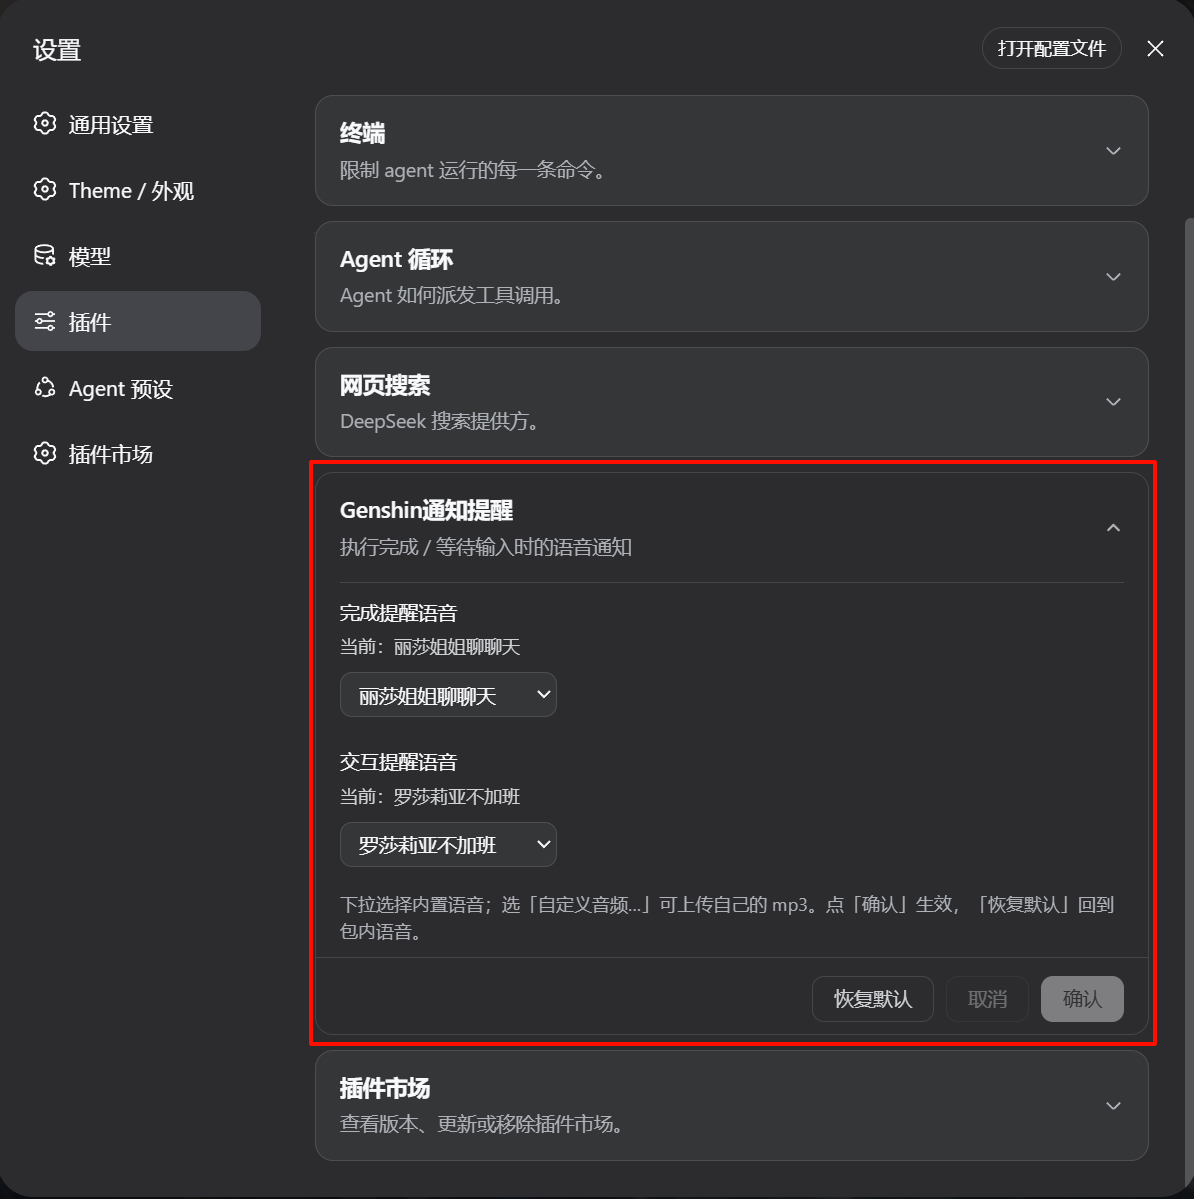
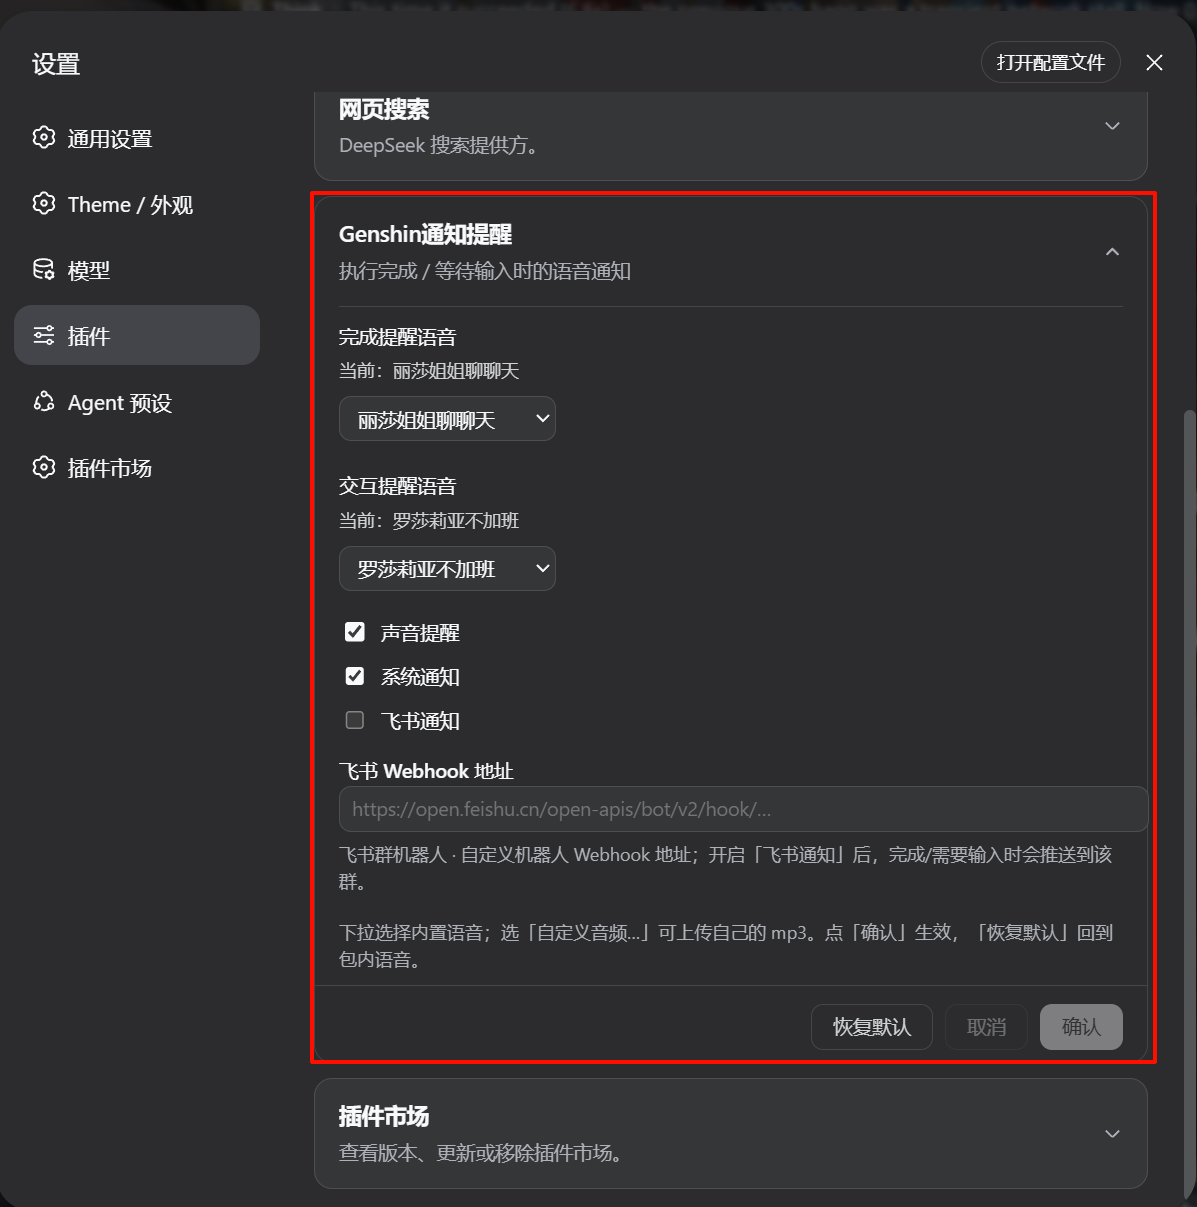
docs: sync usage/config/how-it-works with 0.7.0 (three channels, feishu webhook); refresh screenshot

diff --git a/README.md b/README.md
@@ -34,23 +34,25 @@ dsh plugin --profile web add github:EagleClark/dsh-genshin-lisa-notice
 
 ## 使用方法 / Usage
 
-**1. 触发提醒** —— 装好后无需任何操作，两种时刻会自动响语音：
+**1. 触发提醒** —— 装好后无需任何操作，两种时刻会自动提醒：
 
-- 🏁 **执行完成**：任意会话的回合结束时，播放"完成提醒语音"
-- 💬 **等待输入**：agent 通过 `ask_user_question` 向你提问时，播放"交互提醒语音"
+- 🏁 **执行完成**：任意会话的回合结束，播放"完成提醒语音" + 系统通知 + 飞书（若开启）
+- 💬 **等待输入**：agent 通过 `ask_user_question` 向你提问时，播放"交互提醒语音" + 系统通知 + 飞书（若开启）
 
-**2. 配置语音** —— 打开 **设置 → 插件 → 配置**，展开 **Genshin通知提醒** 卡片（默认折叠）：
+**2. 配置通知** —— 打开 **设置 → 插件 → 配置**，展开 **Genshin通知提醒** 卡片（默认折叠）：
 
+- **声音 / 系统通知** 默认开启，**飞书通知** 默认关闭，各自一个**开关**可随时切换
 - 完成/交互各一个**下拉框**，点开可选内置语音（显示友好名）
 - 选「自定义音频…」可上传你自己的 mp3（之后显示原文件名）
+- **飞书 Webhook 地址**：填入飞书群自定义机器人的 webhook 并开启「飞书通知」，即可推送到群
 - 点 **确认** 保存并立即生效；**取消** 丢弃未确认的选择；**恢复默认** 一键回到内置默认
 - 配置即时生效，无需重启
 
-**3. 听不到声音？** 浏览器自动播放策略要求页面有过一次用户交互（点击/按键）。重启后第一次提醒若被拦截，点一下页面任意处后下次提醒即可正常出声。
+**3. 听不到声音？** 浏览器自动播放策略要求页面有过一次用户交互（点击/按键）。重启后第一次提醒若被拦截，点一下页面任意处后下次提醒即可正常出声。系统通知需在首次交互时**允许**浏览器通知权限。
 
 ## 配置 / Configuration
 
-打开 **设置 → 插件 → 配置**，展开 **Genshin通知提醒** 卡片：
+打开 **设置 → 插件 → 配置**，展开 **Genshin通知提醒** 卡片（见下方截图）：
 
 - **完成提醒语音**（默认：丽莎姐姐聊聊天）/ **交互提醒语音**（默认：罗莎莉亚不加班）：各一个下拉框，内置语音为：
   - 丽莎姐姐聊聊天
@@ -59,6 +61,8 @@ dsh plugin --profile web add github:EagleClark/dsh-genshin-lisa-notice
   - 罗莎莉亚·还不走吗（附加）
   - 胡桃·晒太阳月亮歌（附加）
 - 下拉选「自定义音频…」上传自己的 mp3（显示原文件名）
+- **通知开关**：声音提醒 / 系统通知（默认开）、飞书通知（默认关）
+- **飞书 Webhook 地址**：填飞书群自定义机器人 webhook；开启「飞书通知」后，完成/需要输入时会推送到该群
 - 「确认」生效并立即播放；「取消」丢弃未确认选择；「恢复默认」回包内默认
 - 自定义上传文件保存在 `$DSH_HOME/data/dsh-genshin-lisa-notice/`
 
@@ -77,8 +81,8 @@ dsh plugin --profile web add github:EagleClark/dsh-genshin-lisa-notice
 
 | 端 | 职责 |
 | --- | --- |
-| Host (`lib/index.js`) | 监听 `agent/turn-stopping`（执行完成）与 `tools/pre-execute` 中的 `ask_user_question`（提问**分发时**触发，早于提问 UI 出现）；事件沿作用域链向上流动，根级插件可收到所有会话的事件。注册 `dsh-genshin-lisa-notice` 设置命名空间（语音 key/路径，实时生效）。通过 `webServer` 提供 `/voices`（内置语音清单）、`/alert.mp3`、`/interaction.mp3`（按配置读取对应音频）与 `/poll`（返回两类计数并清零） |
-| Client (`client/client.js`) | 每 700ms 轮询 `/poll`，分别对完成/交互播放音频（每次播放新建 `Audio` 元素，确保反映最新配置）；首个用户手势解锁自动播放，被拦截的提醒在点击/按键时补播。注册 **设置 → 插件 → 配置** 卡片（语音下拉 + 自定义上传 + 恢复默认） |
+| Host (`lib/index.js`) | 监听 `agent/turn-stopping`（执行完成）与 `tools/pre-execute` 中的 `ask_user_question`（提问**分发时**触发，早于提问 UI 出现）；事件沿作用域链向上流动，根级插件可收到所有会话的事件。注册 `dsh-genshin-lisa-notice` 设置命名空间（语音 key/路径 + 通知开关 + 飞书 webhook，实时生效）。通过 `webServer` 提供 `/voices`、`/alert.mp3`、`/interaction.mp3`（按配置读取对应音频）与 `/poll`（返回计数 + 完成摘要）；在 `agent/status` idle 时取最后一条助手消息作摘要并发送飞书 webhook |
+| Client (`client/client.js`) | 每 700ms 轮询 `/poll`，分别对完成/交互：**声音**（每次播放新建 `Audio` 元素，反映最新配置）+ **浏览器系统通知**（含摘要）；受「声音/系统通知」开关控制。首个用户手势解锁自动播放、申请通知权限，被拦截的提醒在点击/按键时补播。注册 **设置 → 插件 → 配置** 卡片（语音下拉 + 自定义上传 + 三路通知开关 + 飞书 webhook + 恢复默认） |
 
 ## 发布 / Publish
 
